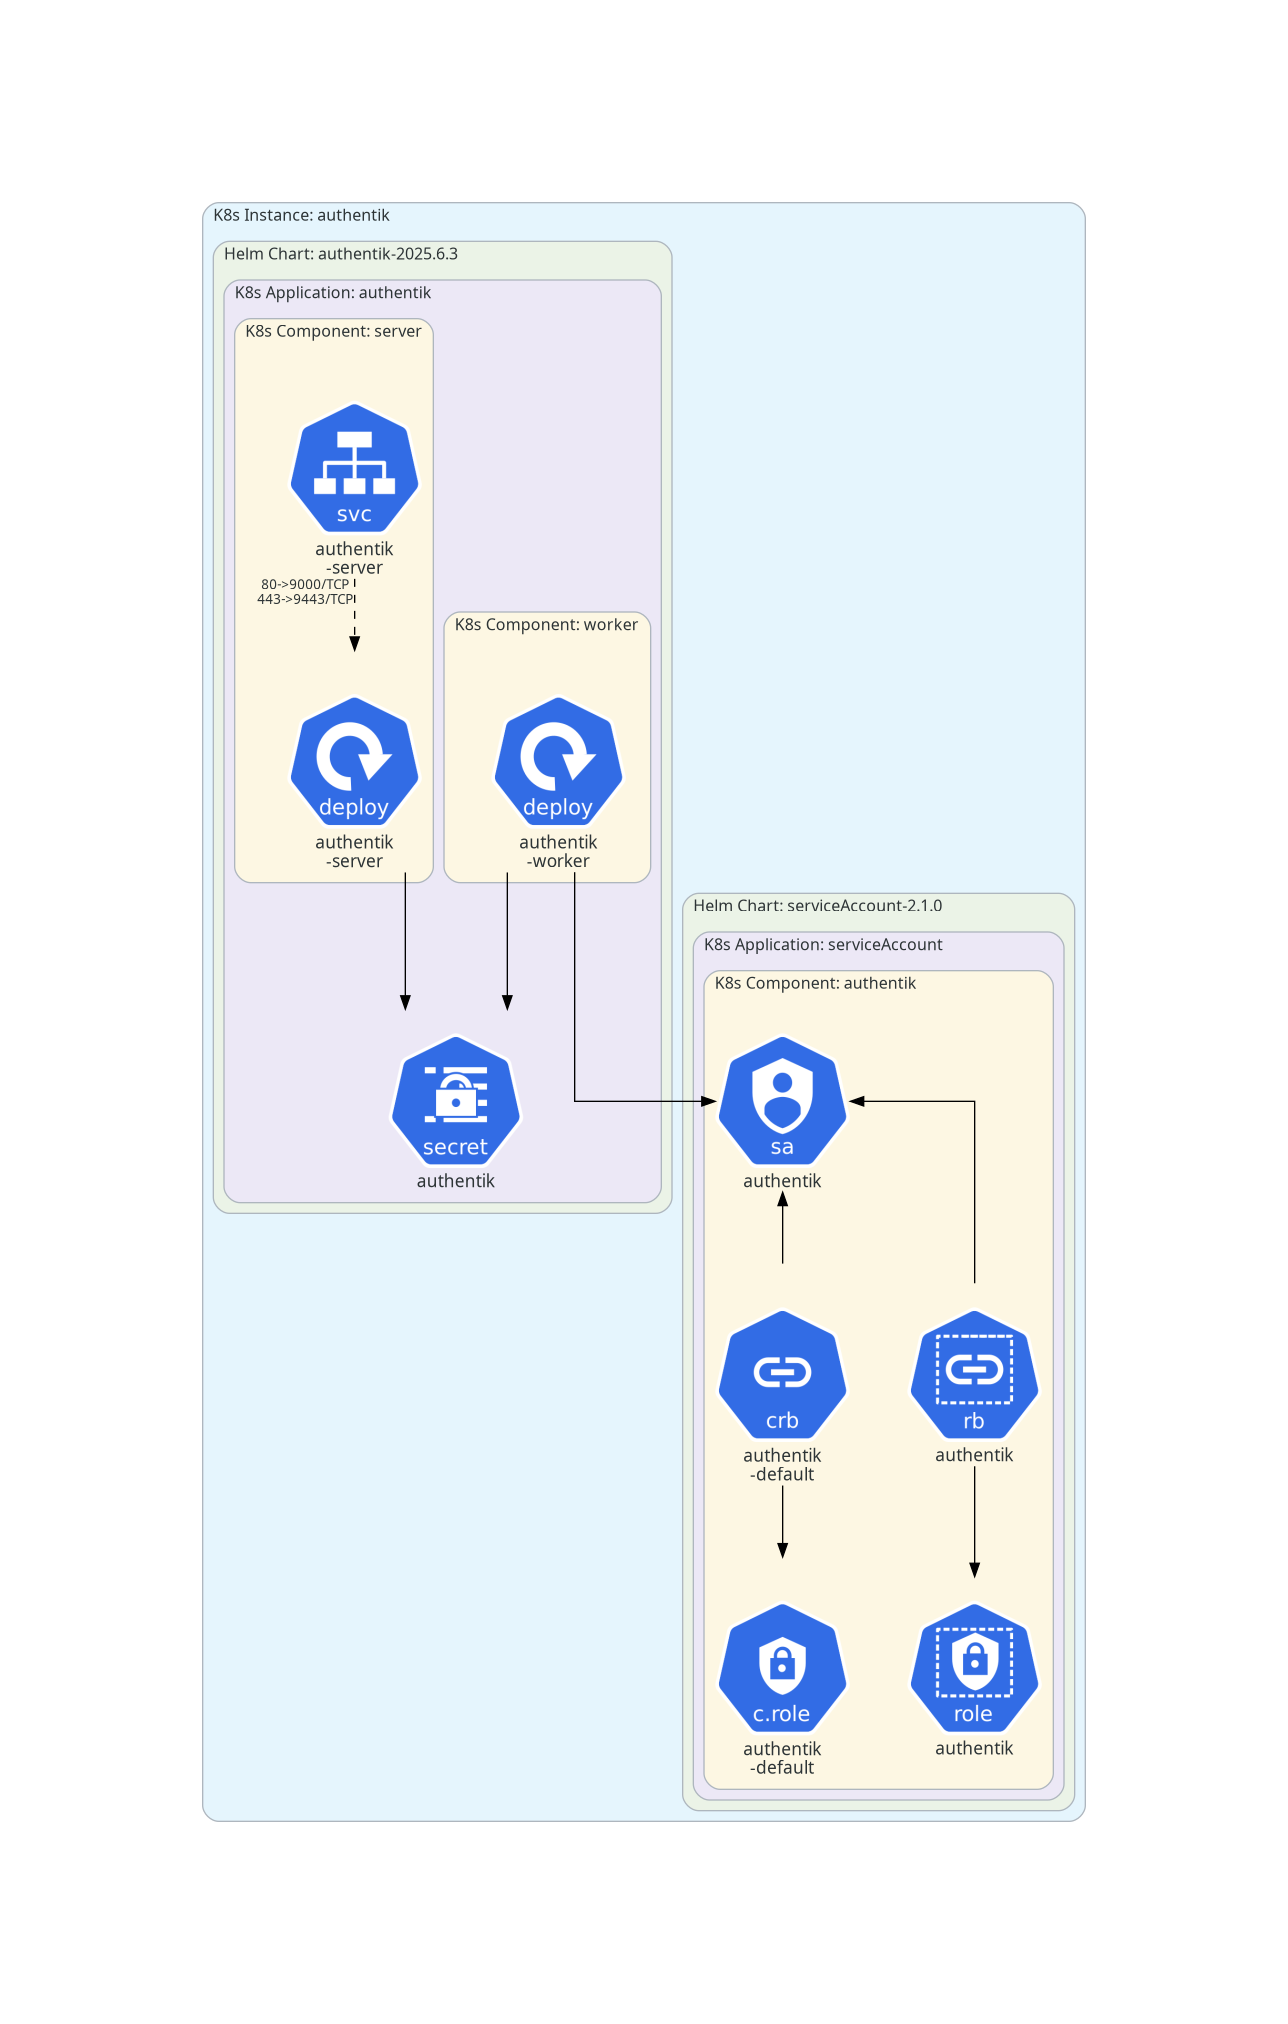
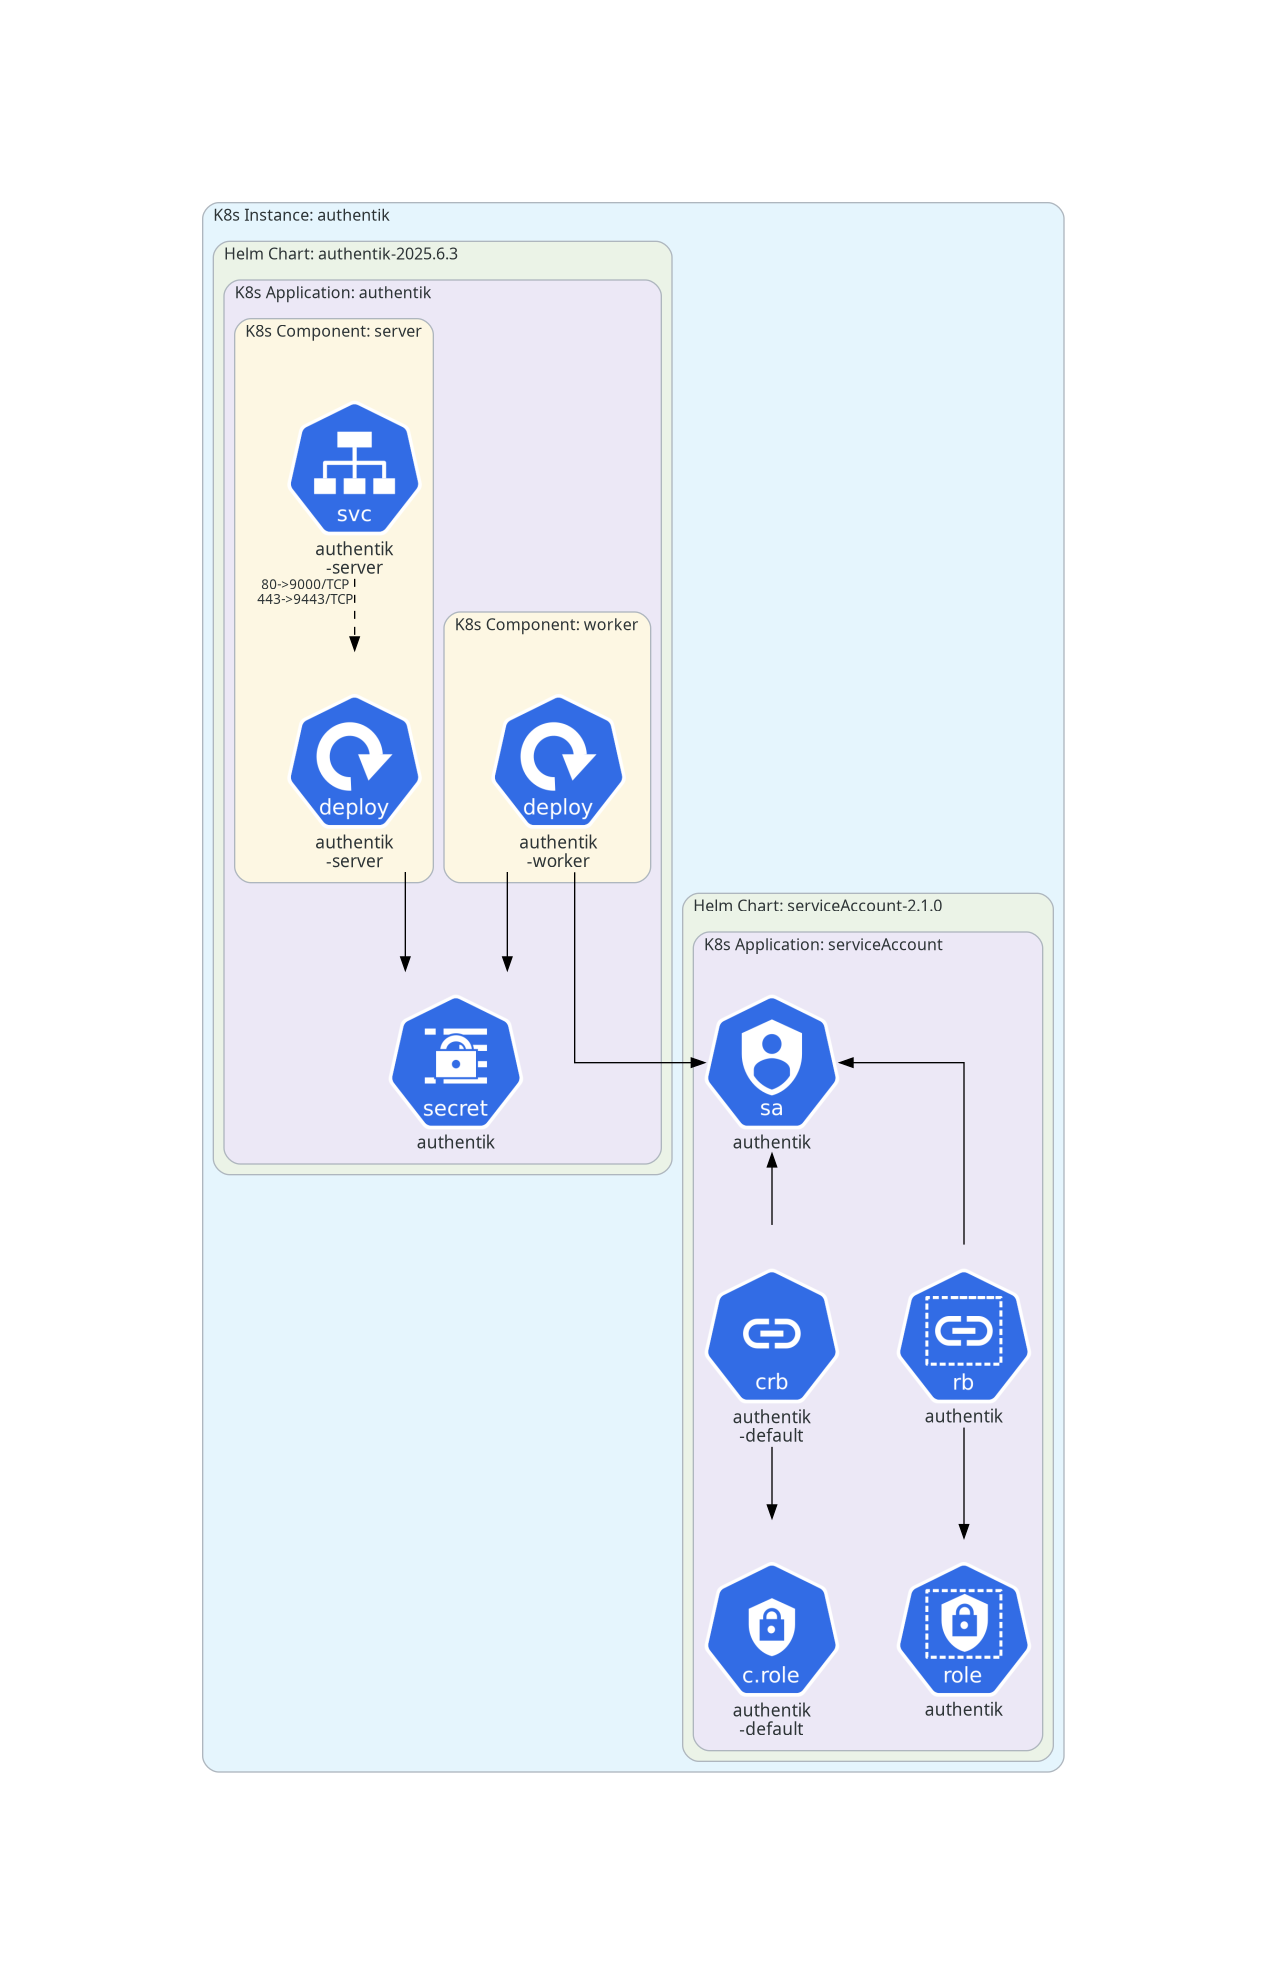
add new algo: check if component has a workload

Changed region(s): [[0.1539, 0.0927, 0.8619, 0.9266]]

diff --git a/src/kubefix/algo_name_component.py b/src/kubefix/algo_name_component.py
@@ -6,7 +6,7 @@ from kubefix.algo_add_proximity_labels import _build_adjacency
 from kubefix.common import Warning, Stat
 from kubefix.label_utils import (
     DEFAULT_CONFIG_PATH, load_config, cluster_label_keys as _cluster_label_keys,
-    labels as _labels, set_label, label_stat, suggest_name,
+    labels as _labels, set_label, label_stat, suggest_name, is_workload,
 )
 
 COMPONENT_LABEL = "app.kubernetes.io/component"
@@ -53,8 +53,8 @@ def _component_within_application(resources_by_rid, output_rids, adj, warnings):
     """For each K8s application with at least two resources that form a single
     connected component among themselves:
       - if exactly one component label value is used, give it to all of its resources that lack one;
-      - if no component label is used, give them all a new component label
-        named after the longest common substring of their names.
+      - if no component label is used and at least one of them is a workload, give them
+        all a new component label named after the longest common substring of their names.
 
     Applications with several component values or several connected
     components are skipped for now.
@@ -81,10 +81,13 @@ def _component_within_application(resources_by_rid, output_rids, adj, warnings):
         members = [resources_by_rid[rid] for rid in app_rids]
         values = {_labels(r)[COMPONENT_LABEL] for r in members if COMPONENT_LABEL in _labels(r)}
         if len(values) == 1:
+            # one existing component: extend it to the members that lack it
             value = next(iter(values))
-        elif not values:
+        elif not values and any(is_workload(r) for r in members):
+            # no component yet: name a new one, only if it contains a workload
             value = _name_component(members, warnings)
         else:
+            # several components (ambiguous), or no workload: do nothing
             continue
 
         for resource in members:
@@ -96,13 +99,13 @@ def _component_within_application(resources_by_rid, output_rids, adj, warnings):
 
 
 def algo_name_component(resources, config_path=None):
-    """For each connected component whose resources all share the same cluster-labels and none has a component label, 
-    give them all a component label named after the longest common substring of their names.
+    """For each connected component whose resources all share the same cluster-labels, none has a component label
+    and at least one is a workload, give them all a component label named after the longest common substring of their names.
 
     Single-resource components are skipped. Synthesised nodes take part in the connectivity but are not checked, named or labelled.
 
     Then, within each K8s application whose resources are connected among themselves, the single component label value used
-    is given to the remaining resources, or, if none is used, a new component is named for all of them.
+    is given to the remaining resources, or, if none is used and one of them is a workload, a new component is named for all of them.
 
     Args:
         resources: list of Kubernetes resources (dicts).
@@ -138,6 +141,10 @@ def algo_name_component(resources, config_path=None):
 
         # none of them has a component label yet.
         if COMPONENT_LABEL in cluster_labels:
+            continue
+
+        # a new component must contain at least one workload.
+        if not any(is_workload(r) for r in members):
             continue
 
         value = _name_component(members, warnings)

diff --git a/src/kubefix/algo_check_comp_validity.py b/src/kubefix/algo_check_comp_validity.py
@@ -1,0 +1,56 @@
+"""Check if at least one workload is among the resources with the same component label, delete the label if no."""
+
+from kubefix.common import Warning, Stat
+from kubefix.label_utils import labels, label_stat, is_workload
+
+COMPONENT_LABEL = "app.kubernetes.io/component"
+
+
+def _comp_has_workload(cv, resources):
+    """True if at least one workload of the manifest has the component label value cv."""
+    return any(
+        is_workload(r) and labels(r).get(COMPONENT_LABEL) == cv
+        for r in resources
+    )
+
+
+def algo_check_comp_validity(resources):
+    """Remove component labels whose value is not carried by any workload.
+
+    A K8s component is meant to group a workload with the resources around it,
+    so a component value with no workload in it is meaningless: the label is
+    deleted from every resource that has that value.
+
+    Args:
+        resources: list of Kubernetes resources (dicts).
+
+    Returns:
+        A tuple (resources, warnings, stats).
+    """
+    warnings: list[Warning] = []
+    stats: list[Stat] = []
+
+    # 1. Find the set of distinct component label values.
+    comp_values = {labels(r)[COMPONENT_LABEL] for r in resources if COMPONENT_LABEL in labels(r)}
+    if not comp_values:
+        return resources, warnings, stats  # no component label
+
+    # 2. Keep the values that have no workload.
+    invalid_values = {cv for cv in comp_values if not _comp_has_workload(cv, resources)}
+
+    # 3. Delete the label from each resource that has an invalid value.
+    for resource in resources:
+        resource_labels = labels(resource)
+        cv = resource_labels.get(COMPONENT_LABEL)
+        if cv in invalid_values:
+            del resource_labels[COMPONENT_LABEL]
+            stats.append(label_stat(resource))
+
+    for cv in sorted(invalid_values):
+        warnings.append(Warning(
+            resource_kind="Component",
+            resource_name=cv,
+            message=f"no workload has {COMPONENT_LABEL}={cv}, label removed",
+        ))
+
+    return resources, warnings, stats

diff --git a/src/kubefix/main.py b/src/kubefix/main.py
@@ -13,6 +13,7 @@ from kubefix.algo_unique_cluster import algo_assign_unique_cluster_labels
 from kubefix.algo_add_proximity_labels import algo_proximity_labels
 from kubefix.algo_name_component import algo_name_component
 from kubefix.algo_name_k8s_instance import algo_name_k8s_instance
+from kubefix.algo_check_comp_validity import algo_check_comp_validity
 
 yaml = YAML()
 yaml.preserve_quotes = True
@@ -111,6 +112,11 @@ def cli(input_path: Path, output: Path | None, stats: Path | None, csv_path: Pat
     resources, w, s = algo_normalize_labels(resources)
     all_warnings.extend(w)
     stats_by_algo["algo_normalize_labels"] = s
+
+    # Remove component labels that no workload carries
+    resources, w, s = algo_check_comp_validity(resources)
+    all_warnings.extend(w)
+    stats_by_algo["algo_check_comp_validity"] = s
 
     # Edge intersection
     resources, w, s = algo_label_intersection(resources)

diff --git a/src/kubefix/label_utils.py b/src/kubefix/label_utils.py
@@ -6,7 +6,7 @@ from pathlib import Path
 import yaml
 
 from kubefix.edges.helpers import query_path
-from kubefix.common import Warning, Stat, LABEL_HIERARCHY
+from kubefix.common import Warning, Stat, LABEL_HIERARCHY, WORKLOADS
 
 
 # Default location of the edges config.
@@ -50,6 +50,11 @@ def set_label(resource, key, value):
             resource["metadata"] = {}
         resource["metadata"]["labels"] = current
     current[key] = value
+
+
+def is_workload(resource):
+    """True if the resource is a workload (Deployment, StatefulSet, ...)."""
+    return resource.get("kind") in WORKLOADS
 
 
 def label_stat(resource, changed_labels=1):

diff --git a/src/kubefix/common.py b/src/kubefix/common.py
@@ -35,3 +35,12 @@ LABEL_HIERARCHY = [
     "service",
     "helm.sh/hook",
 ]
+
+WORKLOADS = [
+    "Deployment",
+    "StatefulSet",
+    "DaemonSet",
+    "Job",
+    "CronJob",
+    "Pod",
+]
